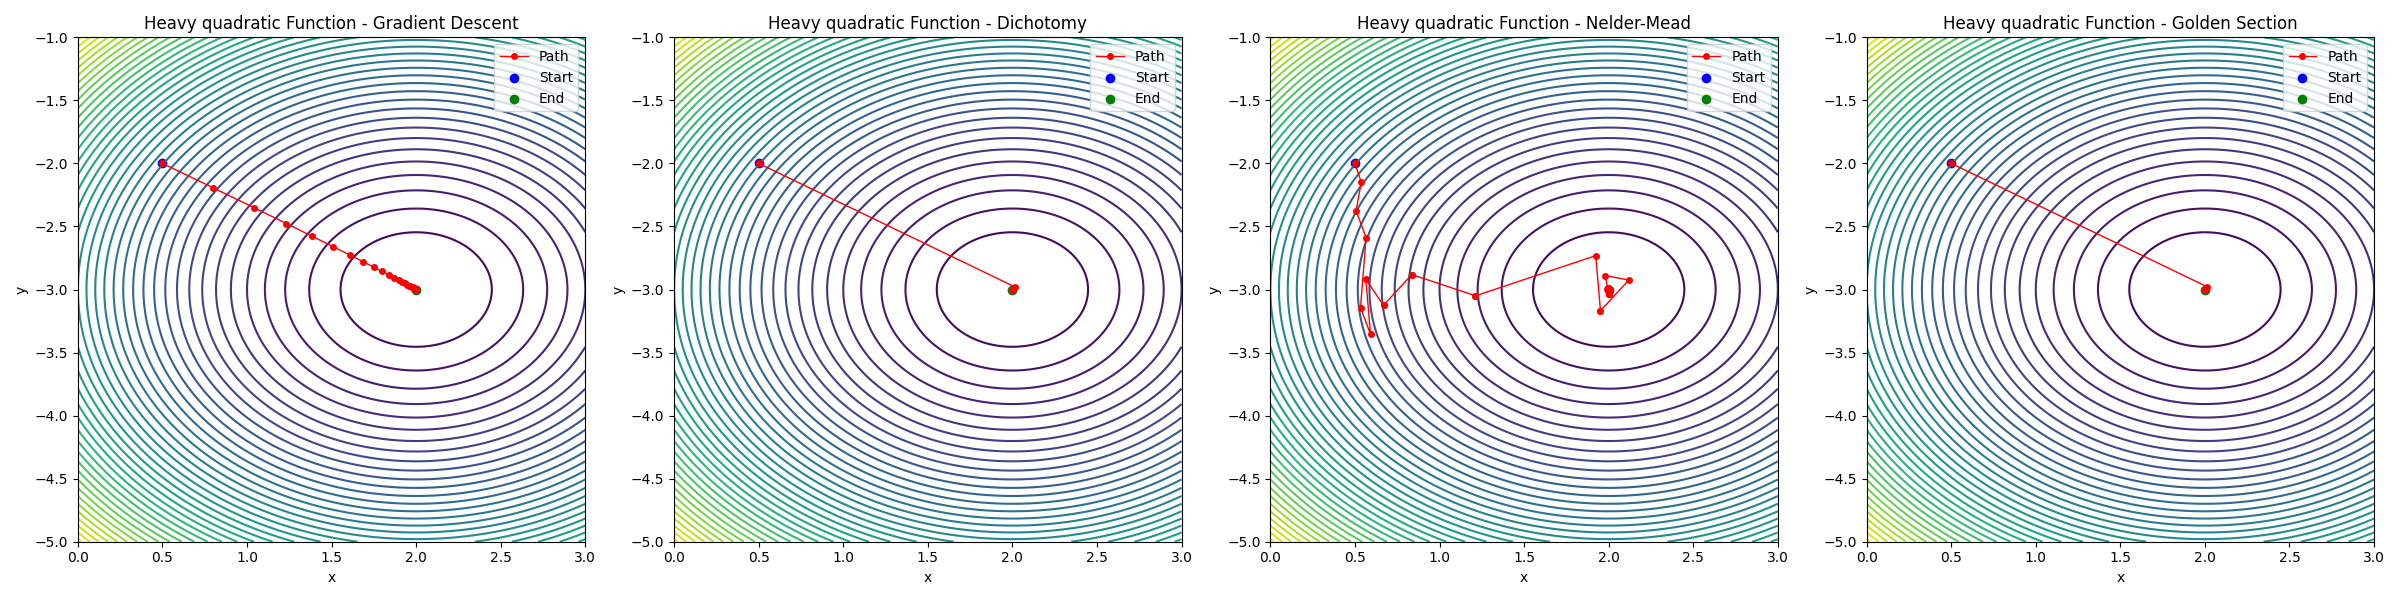
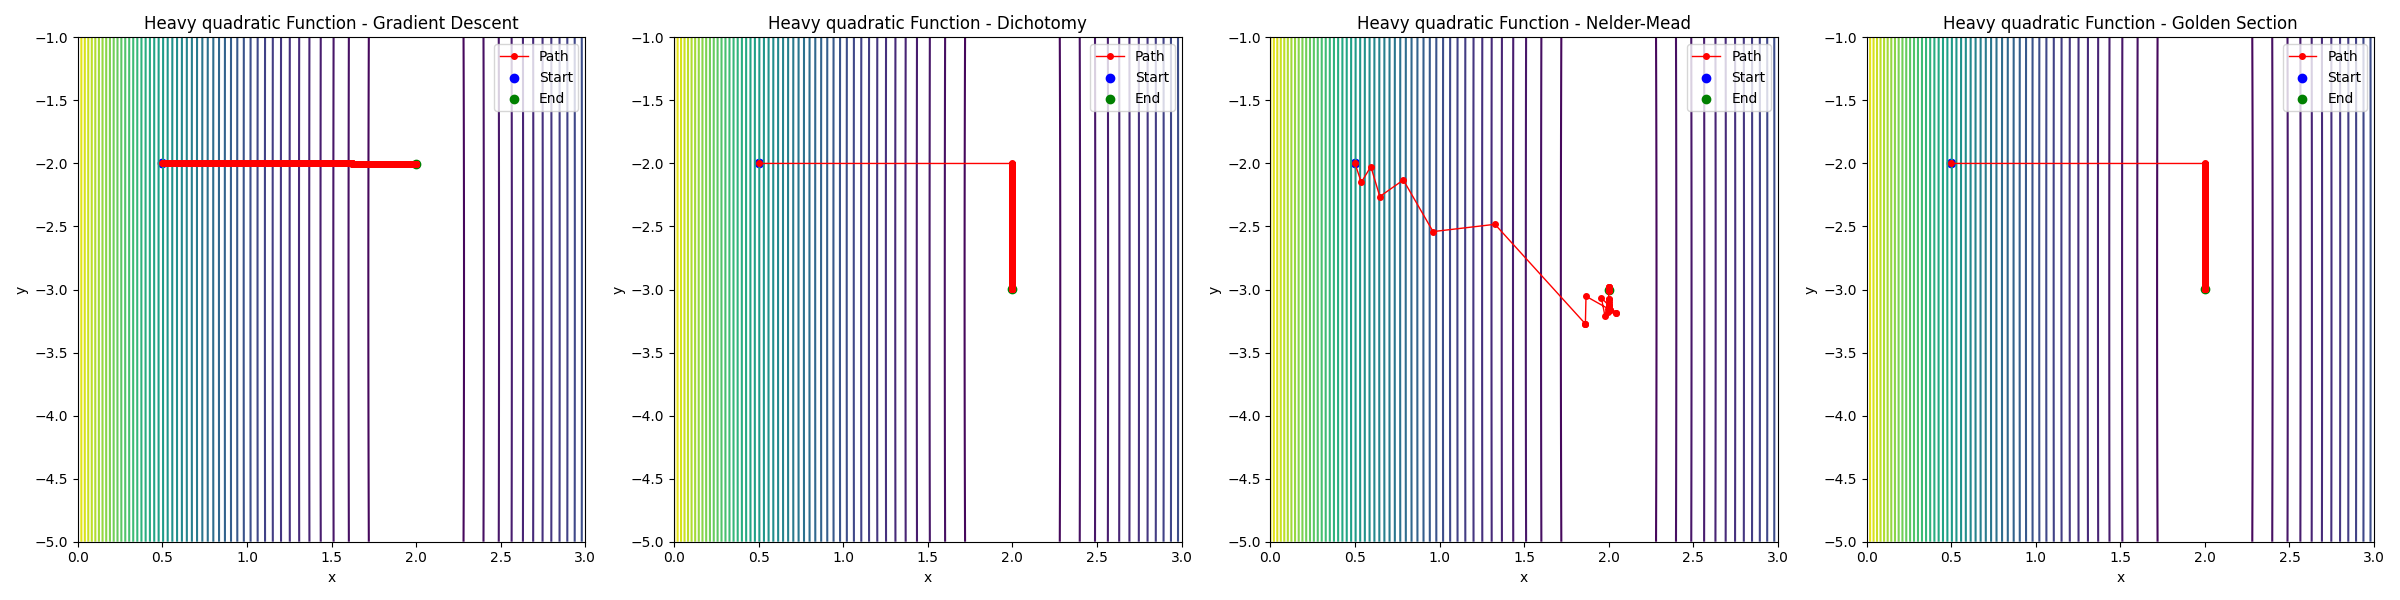
v2+plots-final2

diff --git a/base_task/renewed_and_visualized.py b/base_task/renewed_and_visualized.py
@@ -3,30 +3,38 @@ from scipy.optimize import minimize
 import numpy as np
 import matplotlib.pyplot as plt
 
+
 # функции и градиенты
 def quadratic(point):
     return (point[0] - 2) ** 2 + (point[1] + 3) ** 2
+
 
 def quadratic_grad(point):
     dfdx0 = 2 * (point[0] - 2)
     dfdx1 = 2 * (point[1] + 3)
     return np.array([dfdx0, dfdx1])
 
+
 def rosenbrock(point):
     return (1 - point[0]) ** 2 + 100 * (point[1] - point[0] ** 2) ** 2
+
 
 def rosenbrock_grad(point):
     dfdx0 = -2 * (1 - point[0]) - 400 * point[0] * (point[1] - point[0] ** 2)
     dfdx1 = 200 * (point[1] - point[0] ** 2)
     return np.array([dfdx0, dfdx1])
 
+
 def heavy_quadratic(point):
-    return 100 * (point[0] - 2) ** 2 + 97 * (point[1] + 3) ** 2
+    return (point[0] - 2) ** 2 + 0.0004 * (point[1] + 3) ** 2
+
 
 def heavy_quadratic_grad(point):
-    dfdx0 = 200 * point[0] - 400
-    dfdx1 = 194 * point[1] + 582
-    return np.array([dfdx0, dfdx1])
+    x, y = point
+    df_dx = 2 * (x - 2)
+    df_dy = 0.0008 * (y + 3)
+    return np.array([df_dx, df_dy])
+
 
 # Методы оптимизации
 def gradient_descent_with_trajectory(grad_function, start_point, learning_rate=0.001, tolerance=1e-6,
@@ -41,6 +49,7 @@ def gradient_descent_with_trajectory(grad_function, start_point, learning_rate=0
         point = point_new
         trajectory.append(point.copy())
     return point, trajectory
+
 
 def gradient_descent_dichotomy_with_trajectory(function, grad_function, start_point, tolerance=1e-6,
                                                max_iterations=10000000):
@@ -66,6 +75,7 @@ def gradient_descent_dichotomy_with_trajectory(function, grad_function, start_po
         point = point_new
         trajectory.append(point.copy())
     return point, trajectory
+
 
 def nelder_mead_with_trajectory(function, start_point, precision=1e-6):
     trajectory = [np.array(start_point)]
@@ -113,48 +123,58 @@ def gradient_descent_golden_section_with_trajectory(function, grad_function, sta
 
     return point, trajectory
 
+
 # Доп. задание 2
 
 
 # Пункт 1
 def extended_rosenbrock(x):
-    return sum(100.0*(x[i+1]-x[i]**2.0)**2.0 + (1-x[i])**2.0 for i in range(len(x)-1))
+    return sum(100.0 * (x[i + 1] - x[i] ** 2.0) ** 2.0 + (1 - x[i]) ** 2.0 for i in range(len(x) - 1))
+
 
 def extended_rosenbrock_grad(x):
     grad = np.zeros_like(x)
-    grad[0] = -400.0*x[0]*(x[1]-x[0]**2) - 2.0*(1-x[0])
-    for i in range(1,len(x)-1):
-        grad[i] = 200.0*(x[i]-x[i-1]**2) - 400.0*(x[i+1]-x[i]**2)-(2.0*(1-x[i]))
-    grad[-1] = 200.0*(x[-1]-x[-2]**2)
+    grad[0] = -400.0 * x[0] * (x[1] - x[0] ** 2) - 2.0 * (1 - x[0])
+    for i in range(1, len(x) - 1):
+        grad[i] = 200.0 * (x[i] - x[i - 1] ** 2) - 400.0 * (x[i + 1] - x[i] ** 2) - (2.0 * (1 - x[i]))
+    grad[-1] = 200.0 * (x[-1] - x[-2] ** 2)
     return grad
+
 
 # Пункт 2
 
 def goldstein_price(point):
     x, y = point[0], point[1]
-    fact1a = (x + y + 1)**2
-    fact1b = 19 - 14*x + 3*x**2 - 14*y + 6*x*y + 3*y**2
-    fact1 = 1 + fact1a*fact1b
-    fact2a = (2*x - 3*y)**2
-    fact2b = 18 - 32*x + 12*x**2 + 48*y - 36*x*y + 27*y**2
-    fact2 = 30 + fact2a*fact2b
-    return fact1*fact2
+    fact1a = (x + y + 1) ** 2
+    fact1b = 19 - 14 * x + 3 * x ** 2 - 14 * y + 6 * x * y + 3 * y ** 2
+    fact1 = 1 + fact1a * fact1b
+    fact2a = (2 * x - 3 * y) ** 2
+    fact2b = 18 - 32 * x + 12 * x ** 2 + 48 * y - 36 * x * y + 27 * y ** 2
+    fact2 = 30 + fact2a * fact2b
+    return fact1 * fact2
+
 
 def goldstein_price_grad(point):
     x, y = point[0], point[1]
-    dfdx = ((x + y + 1)*(80*x**3 - 170*x**2 + 86*x + 116*y**2 + 4*y + 64) - (2*x - 3*y)*(64*x**3 - 276*x**2 + 384*x - 200*y**2 - 144*y - 24))/(4*(x**2 - 4*x*y + 4*y**2 + 1)**2)
-    dfdy = ((x + y + 1)*(-12*x**2 + 16*x - 2*y**2 + 16) + (2*x - 3*y)*(-48*x**2 + 156*x - 222*y**2 - 58*y + 84))/(4*(x**2 - 4*x*y + 4*y**2 + 1)**2)
+    dfdx = ((x + y + 1) * (80 * x ** 3 - 170 * x ** 2 + 86 * x + 116 * y ** 2 + 4 * y + 64) - (2 * x - 3 * y) * (
+                64 * x ** 3 - 276 * x ** 2 + 384 * x - 200 * y ** 2 - 144 * y - 24)) / (
+                       4 * (x ** 2 - 4 * x * y + 4 * y ** 2 + 1) ** 2)
+    dfdy = ((x + y + 1) * (-12 * x ** 2 + 16 * x - 2 * y ** 2 + 16) + (2 * x - 3 * y) * (
+                -48 * x ** 2 + 156 * x - 222 * y ** 2 - 58 * y + 84)) / (4 * (x ** 2 - 4 * x * y + 4 * y ** 2 + 1) ** 2)
     return np.array([dfdx, dfdy])
 
+
 def rastrigin(point):
-    x, y  = point[0], point[1]
-    return 10*2 + x**2 - 10*np.cos(2*np.pi*x) + y**2 - 10*np.cos(2*np.pi*y)
+    x, y = point[0], point[1]
+    return 10 * 2 + x ** 2 - 10 * np.cos(2 * np.pi * x) + y ** 2 - 10 * np.cos(2 * np.pi * y)
+
 
 def rastrigin_grad(point):
     x, y = point[0], point[1]
-    dfdx = 2*x + 20*np.pi*x*np.sin(2*np.pi*x)
-    dfdy = 2*y + 20*np.pi*y*np.sin(2*np.pi*y)
+    dfdx = 2 * x + 20 * np.pi * x * np.sin(2 * np.pi * x)
+    dfdy = 2 * y + 20 * np.pi * y * np.sin(2 * np.pi * y)
     return np.array([dfdx, dfdy])
+
 
 # Пункт 3
 
@@ -163,12 +183,15 @@ def noisy_quadratic(point):
     ans = (point[0] - 2) ** 2 + (point[1] + 3) ** 2 + noise
     return ans
 
+
 def noisy_heavy_quadratic(point):
     noise = random.normalvariate(0, 0.05)
     return 100 * (point[0] - 2) ** 2 + 97 * (point[1] + 3) ** 2 + noise
 
+
 # Визуализация
-def plot_contour_and_trajectory(function, grad_function, start_point, xlim, ylim, title_prefix, trajectories, imgName=None):
+def plot_contour_and_trajectory(function, grad_function, start_point, xlim, ylim, title_prefix, trajectories,
+                                imgName=None):
     x = np.linspace(xlim[0], xlim[1], 400)
     y = np.linspace(ylim[0], ylim[1], 400)
     X, Y = np.meshgrid(x, y)
@@ -202,7 +225,6 @@ def plot_contour_and_trajectory(function, grad_function, start_point, xlim, ylim
             plt.savefig(imgName)
 
 
-
 if __name__ == "__main__":
     # Точки старта для различных функций
     start_point_quadratic = [0.5, -2]
@@ -210,20 +232,24 @@ if __name__ == "__main__":
 
     # Оптимизация квадратичной функции
     _, trajectory = gradient_descent_with_trajectory(quadratic_grad, start_point_quadratic)
-    _, trajectory_quad_golden = gradient_descent_golden_section_with_trajectory(quadratic, quadratic_grad, start_point_quadratic)
+    _, trajectory_quad_golden = gradient_descent_golden_section_with_trajectory(quadratic, quadratic_grad,
+                                                                                start_point_quadratic)
     _, trajectory_dich = gradient_descent_dichotomy_with_trajectory(quadratic, quadratic_grad, start_point_quadratic)
     _, trajectory_quadratic_nm = nelder_mead_with_trajectory(quadratic, start_point_quadratic)
 
     plot_contour_and_trajectory(
         quadratic, quadratic_grad, start_point_quadratic, [0, 3], [-5, -1],
         "Quadratic Function",
-        {"Gradient Descent": trajectory, "Dichotomy": trajectory_dich, "Nelder-Mead": trajectory_quadratic_nm, "Golden Section": trajectory_quad_golden }
+        {"Gradient Descent": trajectory, "Dichotomy": trajectory_dich, "Nelder-Mead": trajectory_quadratic_nm,
+         "Golden Section": trajectory_quad_golden}
     )
 
     # Оптимизация функции Розенброка
     _, trajectory_rosen_gd = gradient_descent_with_trajectory(rosenbrock_grad, start_point_rosenbrock)
-    _, trajectory_rosen_golden = gradient_descent_golden_section_with_trajectory(rosenbrock, rosenbrock_grad, start_point_rosenbrock)
-    _, trajectory_rosen_dich = gradient_descent_dichotomy_with_trajectory(rosenbrock, rosenbrock_grad, start_point_rosenbrock)
+    _, trajectory_rosen_golden = gradient_descent_golden_section_with_trajectory(rosenbrock, rosenbrock_grad,
+                                                                                 start_point_rosenbrock)
+    _, trajectory_rosen_dich = gradient_descent_dichotomy_with_trajectory(rosenbrock, rosenbrock_grad,
+                                                                          start_point_rosenbrock)
     _, trajectory_rosen_nm = nelder_mead_with_trajectory(rosenbrock, start_point_rosenbrock)
 
     plot_contour_and_trajectory(
@@ -239,8 +265,10 @@ if __name__ == "__main__":
 
     # Оптимизация сложной квадратичной функции
     _, trajectory_qh_gd = gradient_descent_with_trajectory(heavy_quadratic_grad, start_point_quadratic)
-    _, trajectory_qh_golden = gradient_descent_golden_section_with_trajectory(heavy_quadratic, heavy_quadratic_grad, start_point_quadratic)
-    _, trajectory_qh_dich = gradient_descent_dichotomy_with_trajectory(heavy_quadratic, heavy_quadratic_grad, start_point_quadratic)
+    _, trajectory_qh_golden = gradient_descent_golden_section_with_trajectory(heavy_quadratic, heavy_quadratic_grad,
+                                                                              start_point_quadratic)
+    _, trajectory_qh_dich = gradient_descent_dichotomy_with_trajectory(heavy_quadratic, heavy_quadratic_grad,
+                                                                       start_point_quadratic)
     _, trajectory_qh_nm = nelder_mead_with_trajectory(heavy_quadratic, start_point_quadratic)
 
     plot_contour_and_trajectory(
@@ -273,7 +301,6 @@ if __name__ == "__main__":
 
         # Размерность датасетов
         print(len(trajectory_ext_gd), len(trajectory_ext_dich), len(trajectory_ext_nm))
-
 
     # Пункт 2
 
@@ -322,7 +349,8 @@ if __name__ == "__main__":
     )
 
     _, tr_dich = gradient_descent_dichotomy_with_trajectory(quadratic, quadratic_grad, start_point_quadratic)
-    _, tr_dich_noisy = gradient_descent_dichotomy_with_trajectory(noisy_quadratic, quadratic_grad, start_point_quadratic)
+    _, tr_dich_noisy = gradient_descent_dichotomy_with_trajectory(noisy_quadratic, quadratic_grad,
+                                                                  start_point_quadratic)
 
     plot_contour_and_trajectory(
         noisy_quadratic, None, start_point_quadratic, [0, 3], [-5, -1],
@@ -330,7 +358,3 @@ if __name__ == "__main__":
         {"Dichotomy with Noisy": tr_dich_noisy, "Dichotomy": tr_dich},
         "noisy_quad_traectories_dich.png"
     )
-
-
-
-

diff --git a/base_task/testing.py b/base_task/testing.py
@@ -12,7 +12,7 @@ def quadratic(point):
 
 
 def heavy_quadratic(point):
-    return 100 * (point[0] - 2) ** 2 + 97 * (point[1] + 3) ** 2
+    return (point[0] - 2) ** 2 + 0.0004 * (point[1] + 3) ** 2
 
 
 def rosenbrock_grad(point):
@@ -28,13 +28,14 @@ def quadratic_grad(point):
 
 
 def heavy_quadratic_grad(point):
-    dfdx0 = 200 * point[0] - 400
-    dfdx1 = 194 * point[1] + 582
-    return np.array([dfdx0, dfdx1])
+    x, y = point
+    df_dx = 2 * (x - 2)
+    df_dy = 0.0008 * (y + 3)
+    return np.array([df_dx, df_dy])
 
 
-def gradient_descent(grad_function, start_point, learning_rate=0.001, tolerance=1e-6, max_iterations=100000,
-                     max_evals=1000000):
+def gradient_descent(grad_function, start_point, learning_rate=0.001, tolerance=1e-6, max_iterations=1000000,
+                     max_evals=10000000):
     point = np.array(start_point, dtype=float)
     evals = 0
     it = 0
@@ -162,8 +163,8 @@ results = {}
 '''print("----------POINTS TOLERANCE/PRECISION----------")
 for required_tolerance in [1e-3, 1e-4, 1e-5, 1e-6]:
     print("=========================================================")
-    #print("required tolerance:" + str(required_tolerance))
-    print("required precision:" + str(required_tolerance))
+    print("required tolerance:" + str(required_tolerance))
+    #print("required precision:" + str(required_tolerance))
     print()
     print("for rosenbrock:")
     gd_rosenbrock = gradient_descent(rosenbrock_grad, start_point_rosenbrock, 0.001, required_tolerance)
